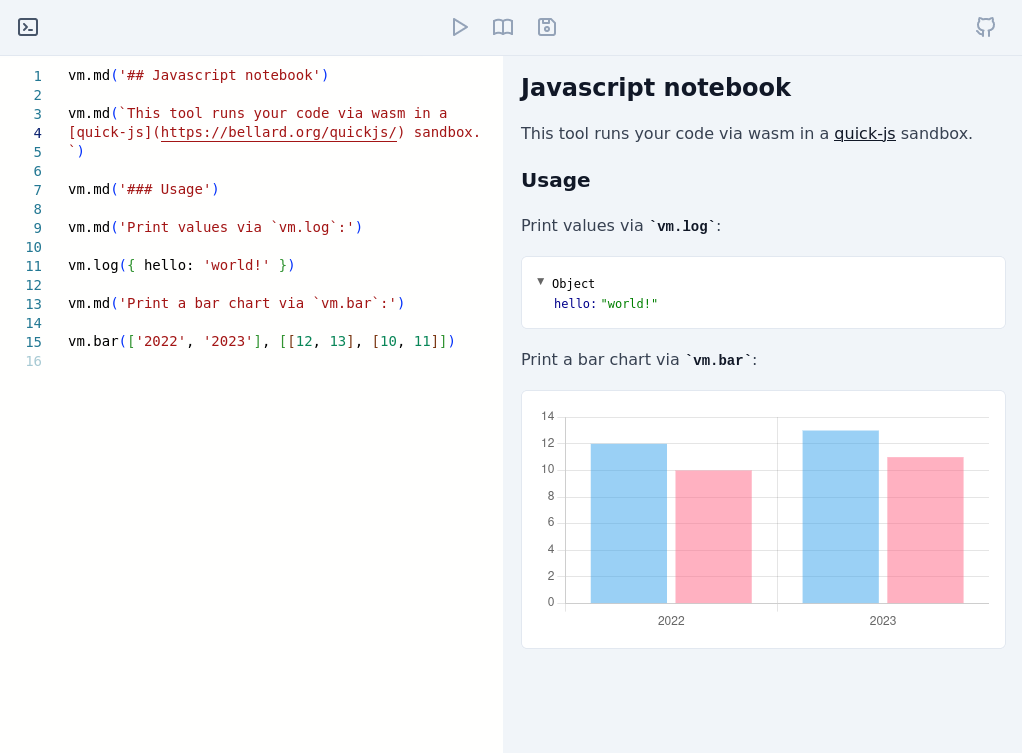
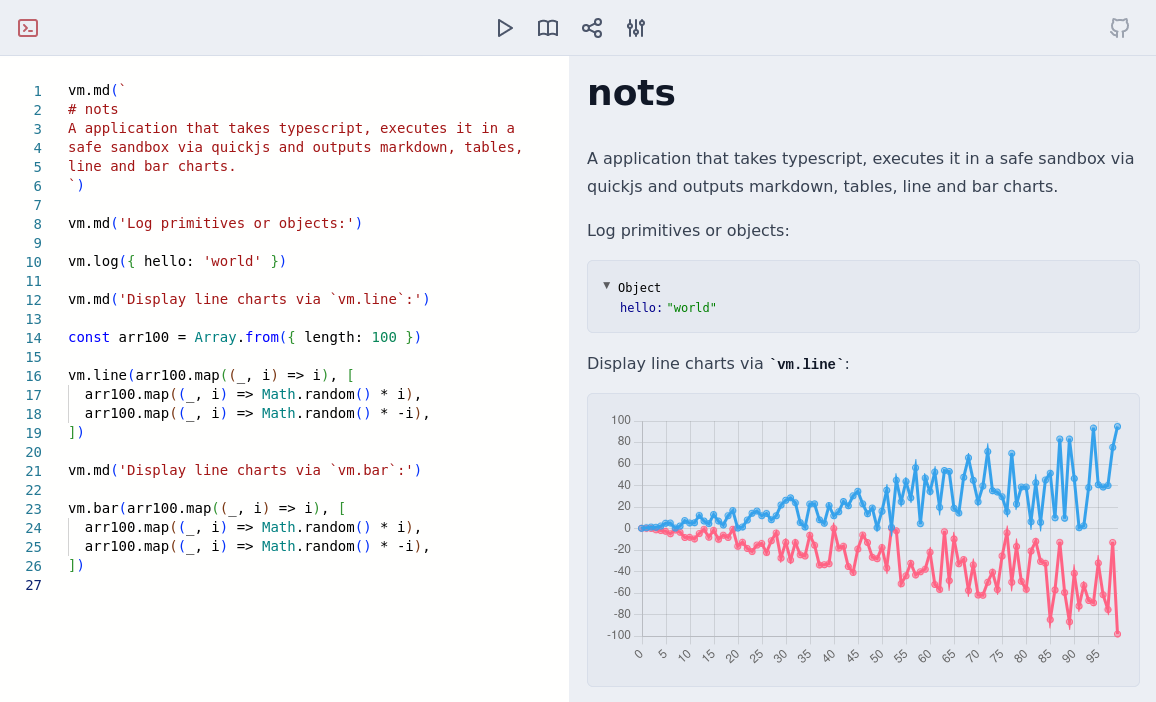
enhance readme

diff --git a/README.md b/README.md
@@ -1,28 +1,43 @@
-# jsrepl
+# nots
 
-A javascript repl - sandboxed via quickjs.
-
-Takes your javascript code and executes it in the qickjs javascript engine via wasm.
+A application that takes typescript, executes it in a safe sandbox via quickjs and outputs markdown, tables, line and bar charts. 
 
 Visit at [janstuemmel.de/jsrepl](https://janstuemmel.de/jsrepl/)
+
+## Features
+
+* Write code in monaco-editor
+* Executes your code in a quickjs sandbox
+* Configure memory and execution timout 
+* Log primitives and objects via `vm.log`
+* Render markdown via `vm.md`
+* Display bar charts via `vm.bar`
+* Display line charts via `vm.line`
+* Display tables via `vm.table`
+* Share gists via url fragment
+
+## Disclaimer
+
+This project was created within a weekend, thus it's very hacky 
+and does not include tests. Use at your own risk!
+
+## Screenshots
 
 <picture>
   <source media="(prefers-color-scheme: dark)" srcset="./docs/screen-dark.png">
   <img src="./docs/screen-light.png">
 </picture>
 
-## Disclaimer
 
-This project was created within an afternoon, thus it's very hacky 
-and does not include tests. Use at your own risk!
-
-## Build with
+## Built with
 
 * [QickJS](https://bellard.org/quickjs/)
 * [quickjs-emscripten](https://github.com/justjake/quickjs-emscripten)
 * [monaco-editor](https://microsoft.github.io/monaco-editor/)
 * [svelte](https://svelte.dev/)
 * [vite](https://vitejs.dev/)
+* [chart.js](https://www.chartjs.org/)
+* [AG-Grid](https://www.ag-grid.com/)
 
 ## License
 
